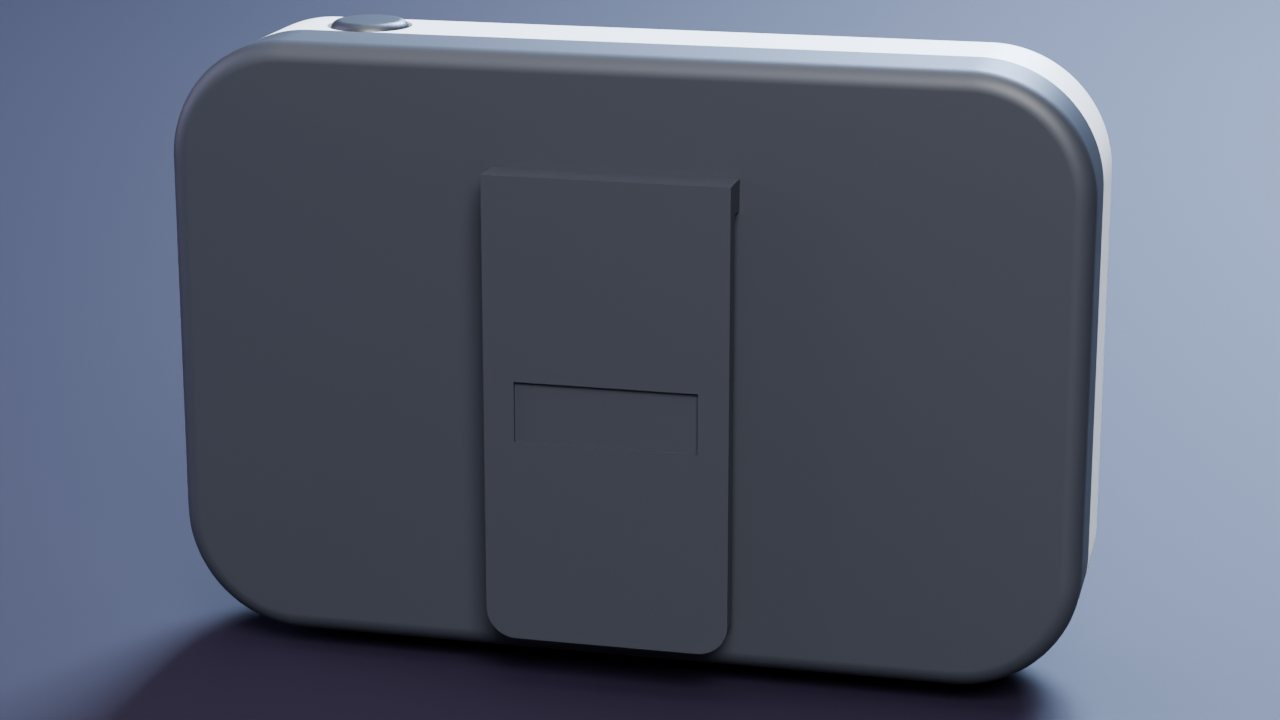
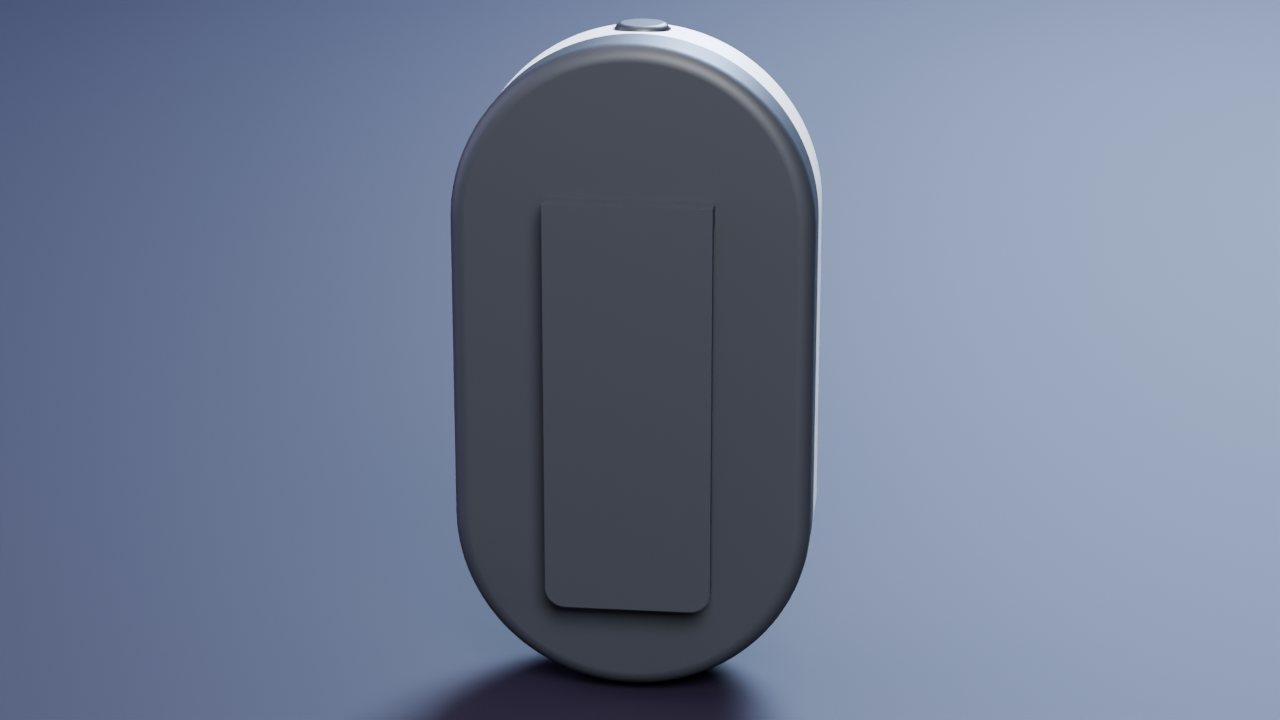
CortX: back unit v2, an upright capsule puck
Swap the back unit renders, hero shot and dimensions for the v2 capsule
form (52 x 96 x 24 mm) that still clips into the vest.

Claude-Session: https://claude.ai/code/session_019rKuZoH8b93aHU8AdxBrVH

diff --git a/index.html b/index.html
@@ -619,7 +619,7 @@ footer .socials .ico svg{width:13px;height:13px}
     <p class="cx-lead">It fits the club's routine instead of asking the club to change.</p>
     <ol class="cx-system">
       <li><i>01</i><b>Headset</b>Dry EEG electrodes and fNIRS sensors in a light shell. One Boa dial fits many head sizes.</li>
-      <li><i>02</i><b>Back unit</b>Amplifier, battery, GPS and Bluetooth in a 90 × 60 × 20 mm puck that clips into a washable compression vest.</li>
+      <li><i>02</i><b>Back unit</b>Amplifier, battery, GPS and Bluetooth in an upright 52 × 96 × 24 mm capsule that clips into a washable compression vest.</li>
       <li><i>03</i><b>Charging dock</b>A bench station where a squad of 25 headsets and back units charge and sync together.</li>
       <li><i>04</i><b>Pitch-side app</b>Live focus, load and fatigue per player on a tablet. No laptop, no waiting for the report.</li>
       <li><i>05</i><b>Analyst dashboard</b>Sessions over time, joined with positional and event data through Catapult and STATSports APIs.</li>
@@ -656,7 +656,7 @@ footer .socials .ico svg{width:13px;height:13px}
     <div class="cx-grid2">
       <figure class="cx-fig"><img src="img/cx2-dial.jpg" alt="Close-up of the red Boa dial embossed with the cortX mark on the graphite back of the headset" width="1920" height="1080" loading="lazy"><figcaption><span>Fig. 02</span>The only colour on the headset is the dial</figcaption></figure>
       <figure class="cx-fig"><img src="img/cx2-inside.jpg" alt="The headset upside down showing the indigo liner with electrode pods and oval pads" width="1920" height="1080" loading="lazy"><figcaption><span>Fig. 03</span>Indigo liner, dry electrode pods</figcaption></figure>
-      <figure class="cx-fig"><img src="img/cx2-bu-front.jpg" alt="The back unit: a rounded pale grey puck with a thin status light and a top button" width="1280" height="720" loading="lazy"><figcaption><span>Fig. 04</span>Back unit, status light and one button</figcaption></figure>
+      <figure class="cx-fig"><img src="img/cx2-bu-front.jpg" alt="The back unit: an upright pale grey capsule with a vertical status light and a button on top" width="1280" height="720" loading="lazy"><figcaption><span>Fig. 04</span>Back unit: an upright capsule, one light, one button</figcaption></figure>
       <figure class="cx-fig"><img src="img/cx2-bu-exploded.jpg" alt="The back unit exploded: front cover, light pipe, button, graphite rear base with T-rail clip and gold charging contacts" width="1280" height="720" loading="lazy"><figcaption><span>Fig. 05</span>Two-part shell, T-rail clip, charging contacts</figcaption></figure>
     </div>
     <div class="cx-cmf">
@@ -672,7 +672,7 @@ footer .socials .ico svg{width:13px;height:13px}
     <h3 class="cx-h">The family</h3>
     <div class="cx-grid2">
       <figure class="cx-fig"><img src="img/cx2-side.jpg" alt="The CortX headset in profile, showing the long top shell and the red dial at the back" width="1920" height="1080" loading="lazy"><figcaption><span>Fig. 06</span>Headset, profile</figcaption></figure>
-      <figure class="cx-fig"><img src="img/cx2-bu-back.jpg" alt="The back of the back unit: graphite rear base with the T-rail clip" width="1280" height="720" loading="lazy"><figcaption><span>Fig. 07</span>The clip slides into the vest between the shoulder blades</figcaption></figure>
+      <figure class="cx-fig"><img src="img/cx2-bu-back.jpg" alt="The back of the capsule: graphite rear base with the vertical T-rail clip" width="1280" height="720" loading="lazy"><figcaption><span>Fig. 07</span>The clip slides into the vest between the shoulder blades</figcaption></figure>
     </div>
     <div class="cx-uc"><b>Under construction</b><span>Headset, back unit, vest, dock and tablet together</span></div>
   </div>

diff --git a/pdf/index.html b/pdf/index.html
@@ -253,7 +253,7 @@
       <div><h3>The system</h3>
         <ol class="cx-list">
           <li><b>Headset</b>Dry EEG and fNIRS in a light shell. One Boa dial fits many heads.</li>
-          <li><b>Back unit</b>Amplifier, battery, GPS, Bluetooth. 90 × 60 × 20 mm, clips into a washable vest.</li>
+          <li><b>Back unit</b>Amplifier, battery, GPS, Bluetooth. 52 × 96 × 24 mm capsule, clips into a washable vest.</li>
           <li><b>Charging dock</b>A bench station for a squad of 25.</li>
           <li><b>Pitch-side app</b>Live focus, load and fatigue per player on a tablet.</li>
           <li><b>Analyst dashboard</b>Sessions over time, with Catapult and STATSports data.</li>
